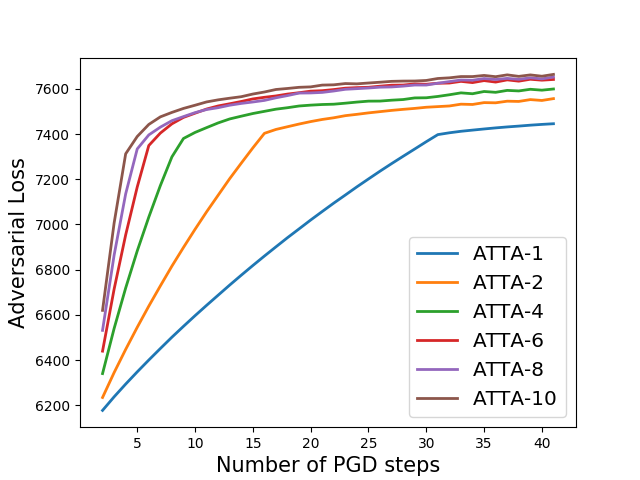
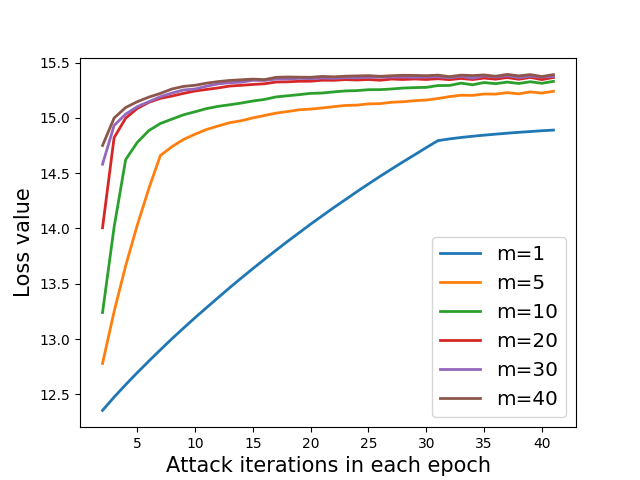
update graph

diff --git a/measure-atta-loss-vs-step.py b/measure-atta-loss-vs-step.py
@@ -15,7 +15,7 @@ import tensorflow as tf
 from pgd_attack import LinfPGDAttack
 
 parser = argparse.ArgumentParser(description='TF CIFAR PGD')
-parser.add_argument('--log-path',  default='./data-log/measure/atta-m-loss-default.log',
+parser.add_argument('--log-prefix',  default='./data-log/measure/atta-loss-vs-step-',
                     help='Log path.')
 parser.add_argument('--gpuid', type=int, default=0,
                     help='The ID of GPU.')                    
@@ -32,7 +32,7 @@ args = parser.parse_args()
 GPUID = args.gpuid
 os.environ["CUDA_VISIBLE_DEVICES"] = str(GPUID)
 
-log_file = open(args.log_path, 'w')
+# log_file = open(args.log_path, 'w')
 
 if __name__ == '__main__':
   import json
@@ -45,11 +45,6 @@ if __name__ == '__main__':
     config = json.load(config_file)
   
   model_dir = args.model_dir
-  #
-  # model_file = tf.train.latest_checkpoint(model_dir)
-  # if model_file is None:
-  #   print('No model found')
-  #   sys.exit()
 
   model = Model()
   attack = LinfPGDAttack(model,
@@ -66,10 +61,14 @@ if __name__ == '__main__':
   y_batch = mnist.test.labels[0:500]
   x_batch_adv = x_batch.copy()
 
+  idx_atta = 0
 
   atta_loop = [1, 5, 10, 20, 30, 40]
   with tf.Session() as sess:
     for loop_size in atta_loop:
+        path = args.log_prefix + str(atta_loop[idx_atta]) + ".log"
+        print(path)
+        log_file = open(path, 'w')
         print("Current loop size: {}".format(loop_size))
         for i in range(args.atta_largest_step):
           atta_step = i + 1
@@ -90,8 +89,8 @@ if __name__ == '__main__':
           adv_dict = {model.x_input: x_batch_adv,
                       model.y_input: y_batch}
 
-          nat_loss = sess.run(model.xent, feed_dict=nat_dict)
-          loss = sess.run(model.xent, feed_dict=adv_dict)
+          nat_loss = sess.run(model.mean_xent, feed_dict=nat_dict)
+          loss = sess.run(model.mean_xent, feed_dict=adv_dict)
 
           print("Attack iterations:     {}".format(i))
           print("adv loss:     {}".format(loss))
@@ -100,5 +99,6 @@ if __name__ == '__main__':
 
           log_file.write("{} {} {} {}\n".format(loop_size, atta_step, loss, nat_loss))
           cur_ckpt += 300
-
+        log_file.close()
+        idx_atta += 1
 log_file.close()

diff --git a/draw_iteration_loss.py b/draw_iteration_loss.py
@@ -5,11 +5,11 @@ import seaborn as sns
 plt.switch_backend('agg')
 
 log1 = open('data-log/measure/atta-loss-vs-step-1.log')
-log2 = open('data-log/measure/atta-loss-vs-step-2.log')
-log3 = open('data-log/measure/atta-loss-vs-step-4.log')
-log4 = open('data-log/measure/atta-loss-vs-step-6.log')
-log5 = open('data-log/measure/atta-loss-vs-step-8.log')
-log6 = open('data-log/measure/atta-loss-vs-step-10.log')
+log2 = open('data-log/measure/atta-loss-vs-step-5.log')
+log3 = open('data-log/measure/atta-loss-vs-step-10.log')
+log4 = open('data-log/measure/atta-loss-vs-step-20.log')
+log5 = open('data-log/measure/atta-loss-vs-step-30.log')
+log6 = open('data-log/measure/atta-loss-vs-step-40.log')
 
 
 label1 = "m=1"

diff --git a/model.py b/model.py
@@ -47,6 +47,8 @@ class Model(object):
 
     self.xent = tf.reduce_sum(y_xent)
 
+    self.mean_xent = tf.reduce_mean(y_xent)
+
     self.y_pred = tf.argmax(self.pre_softmax, 1)
 
     correct_prediction = tf.equal(self.y_pred, self.y_input)
